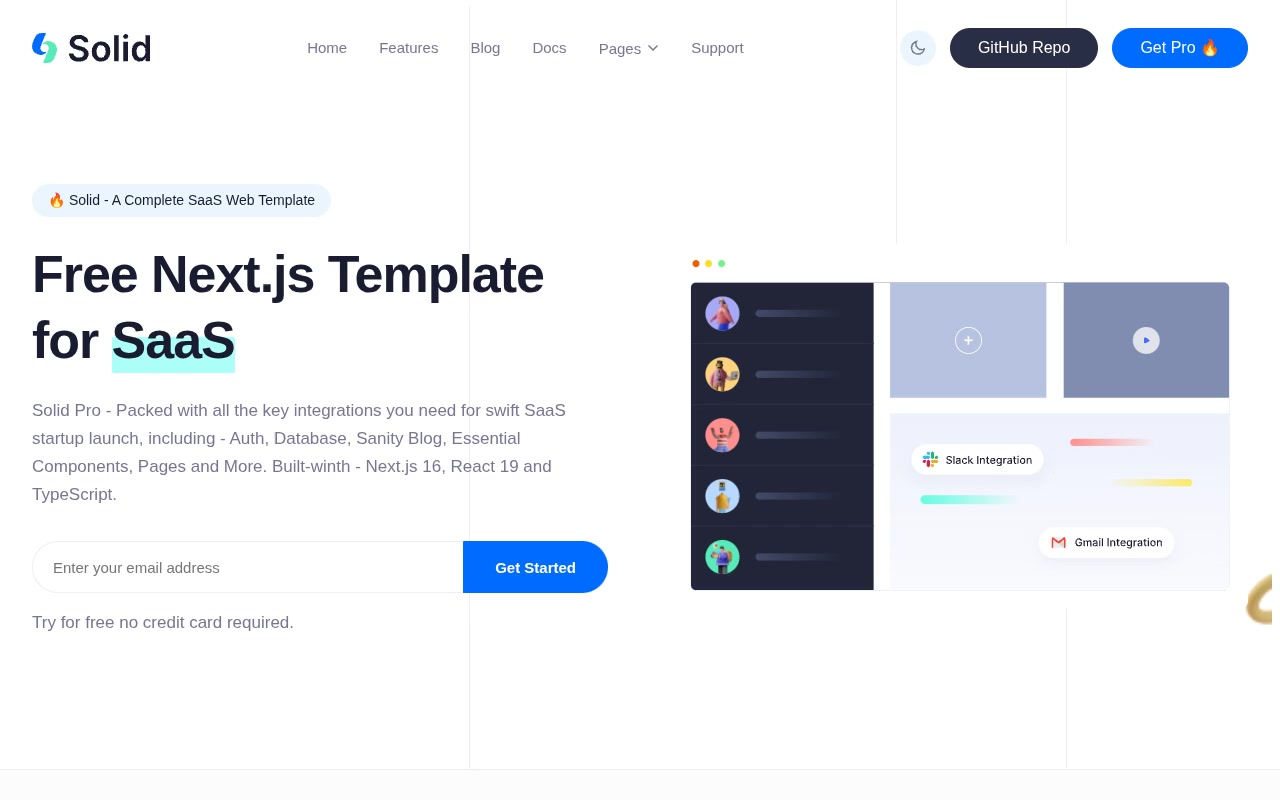
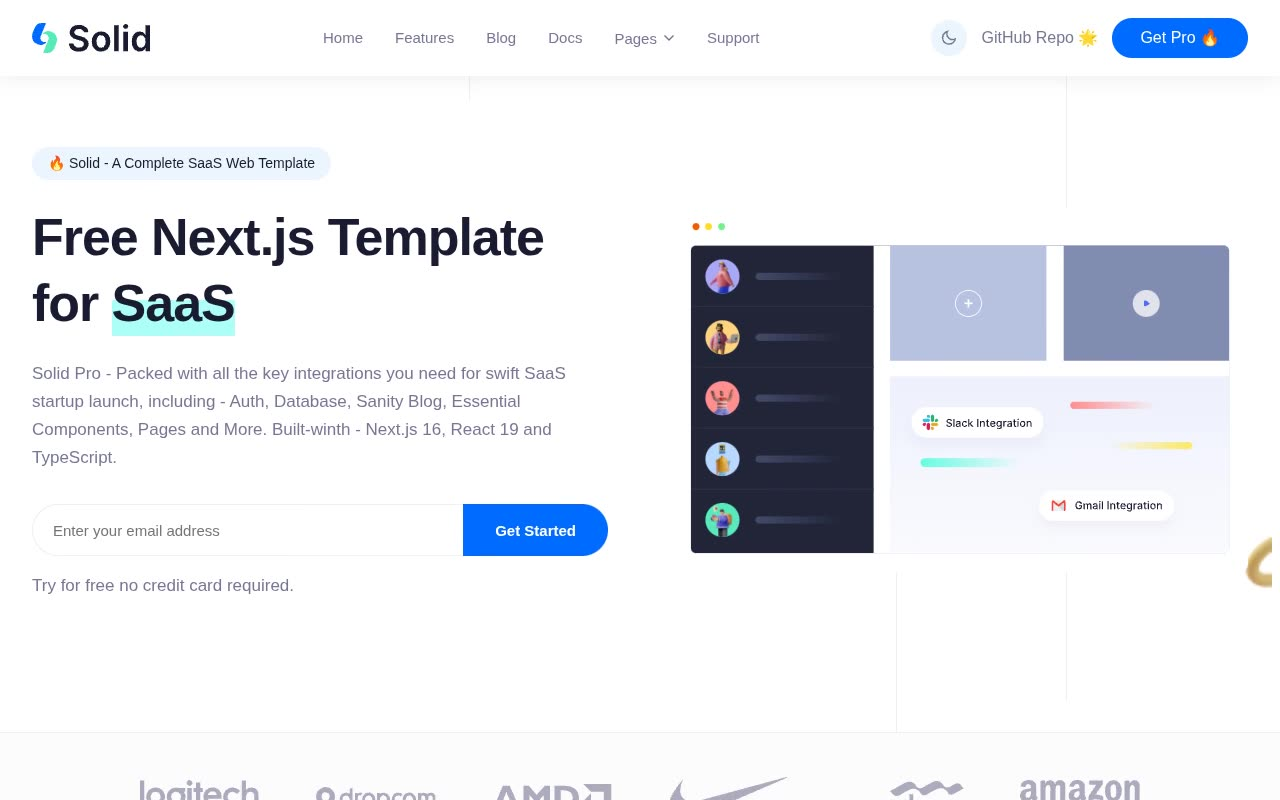
fix(solid): vision-loop corrections — nav, footer, support layout, copyright
- support.html: add full CSS for support layout (was rendering as unstyled raw HTML)
- auth-signin/auth-signup/support: fix .github-link from dark pill button to plain text
- index.html + error.html: change GitHub Repo button to nav-github-link plain text style
- styles.css: add .nav-github-link utility class
- index.html + error.html: remove "Designed by Next.js Templates" footer paragraph
- blog/blog-details/docs/index: update copyright year from 2024 → 2026
- Re-record demo.mp4 and regenerate poster.jpg after all fixes
- Update posters.json manifest

Claude-Session: https://claude.ai/code/session_01D1CjsboSLK2cEmqqkuDosD

diff --git a/templates/premium/nextjstemplates/solid/support.html b/templates/premium/nextjstemplates/solid/support.html
@@ -89,11 +89,10 @@
     .dark .theme-toggle .icon-moon { display: none; }
     .dark .theme-toggle .icon-sun { display: block; }
     .github-link {
-      display: inline-flex; align-items: center; padding: 0.75rem 1.75rem;
-      background: #292e45; color: #fff; border-radius: 9999px; font-size: 1rem;
-      font-weight: 500; text-decoration: none; transition: background 0.2s; white-space: nowrap;
+      font-size: 1rem; font-weight: 500; color: #757693;
+      text-decoration: none; transition: color 0.2s; white-space: nowrap;
     }
-    .github-link:hover { background: #252a42; }
+    .github-link:hover { color: #006bff; }
     .btn-get-pro {
       display: inline-flex; align-items: center; padding: 0.75rem 1.75rem;
       background: #006bff; color: #fff; border-radius: 9999px; font-size: 1rem;
@@ -118,6 +117,135 @@
       .dark .dropdown-menu { background: #252a42; }
       .nav-item-dropdown.open .dropdown-menu { display: block; }
     }
+
+    /* ── SUPPORT SECTION STYLES ── */
+    .support-main { padding-top: 0; }
+    .support-wrapper { padding: 5rem 0 5rem; }
+    .support-section { padding: 0 2rem; }
+    .support-container {
+      position: relative;
+      max-width: 1390px;
+      margin: 0 auto;
+      padding: 2.5rem 1.875rem 0;
+    }
+    @media (min-width: 1024px) {
+      .support-container { padding: 3.75rem 3.75rem 0; }
+    }
+    @media (min-width: 1280px) {
+      .support-container { padding: 5rem 5rem 0; }
+    }
+    .support-bg-gradient {
+      position: absolute;
+      left: 0; top: 0; z-index: -1;
+      height: 66.666%;
+      width: 100%;
+      border-radius: 8px;
+      background: linear-gradient(to top, transparent, rgba(222,231,255,0.28));
+    }
+    .dark .support-bg-gradient { background: linear-gradient(to top, transparent, rgba(37,42,66,0.8)); }
+    .support-dotted-shape {
+      position: absolute;
+      bottom: -255px;
+      left: 0; z-index: -1;
+      height: 100%; width: 100%;
+    }
+    .support-dotted-shape img { position: absolute; inset: 0; width: 100%; height: 100%; }
+    .dotted-light { display: block; }
+    .dotted-dark { display: none; }
+    .dark .dotted-light { display: none; }
+    .dark .dotted-dark { display: block; }
+    .support-cols {
+      display: flex;
+      flex-direction: column-reverse;
+      flex-wrap: wrap;
+      gap: 2rem;
+    }
+    @media (min-width: 768px) {
+      .support-cols { flex-direction: row; flex-wrap: nowrap; justify-content: space-between; }
+    }
+    @media (min-width: 1280px) {
+      .support-cols { gap: 5rem; }
+    }
+    .support-form-card {
+      width: 100%;
+      background: #fff;
+      border-radius: 8px;
+      padding: 1.875rem;
+      box-shadow: 0 4px 40px rgba(0,0,0,0.1);
+    }
+    .dark .support-form-card {
+      background: #000;
+      border: 1px solid #2d2f40;
+    }
+    @media (min-width: 768px) { .support-form-card { width: 60%; } }
+    @media (min-width: 1024px) { .support-form-card { width: 75%; } }
+    @media (min-width: 1280px) { .support-form-card { padding: 3.75rem; } }
+    .support-info-card {
+      width: 100%;
+    }
+    @media (min-width: 768px) { .support-info-card { width: 40%; padding: 1.875rem; } }
+    @media (min-width: 1024px) { .support-info-card { width: 26%; } }
+    @media (min-width: 1280px) { .support-info-card { padding-top: 3.75rem; } }
+    .support-card-title {
+      font-size: 1.875rem; font-weight: 600; color: #181c31; margin-bottom: 2.5rem;
+    }
+    .dark .support-card-title { color: #fff; }
+    @media (min-width: 1280px) { .support-card-title { font-size: 2rem; } }
+    .support-form .form-row {
+      display: flex; flex-direction: column; gap: 1.875rem; margin-bottom: 1.875rem;
+    }
+    @media (min-width: 1024px) {
+      .support-form .form-row { flex-direction: row; justify-content: space-between; gap: 3.5rem; }
+    }
+    .form-row-full { margin-bottom: 2.875rem; }
+    .form-input {
+      width: 100%; border: none; border-bottom: 1.5px solid #eee;
+      background: transparent; padding-bottom: 0.875rem;
+      font-size: 0.9375rem; color: #181c31; outline: none; font-family: inherit;
+    }
+    .dark .form-input { border-bottom-color: #2d2f40; color: #fff; }
+    .form-input::placeholder { color: #999aa1; }
+    .form-textarea {
+      width: 100%; border: none; border-bottom: 1.5px solid #eee;
+      background: transparent; font-size: 0.9375rem; color: #181c31;
+      outline: none; font-family: inherit; resize: vertical; min-height: 80px;
+    }
+    .dark .form-textarea { border-bottom-color: #2d2f40; color: #fff; }
+    .form-textarea::placeholder { color: #999aa1; }
+    .support-form-bottom {
+      display: flex; flex-wrap: wrap; gap: 1rem; justify-content: space-between; align-items: center;
+    }
+    .checkbox-label { display: flex; align-items: flex-start; gap: 0.75rem; cursor: pointer; }
+    .checkbox-label-wide { max-width: 425px; }
+    .checkbox-input { position: absolute; opacity: 0; width: 0; height: 0; }
+    .checkbox-custom {
+      flex-shrink: 0; margin-top: 0.25rem;
+      width: 20px; height: 20px; min-width: 20px;
+      border: 1.5px solid #eee; border-radius: 4px;
+      background: #f5f5f5; display: flex; align-items: center; justify-content: center;
+    }
+    .dark .checkbox-custom { background: #292e45; border-color: #2d2f40; }
+    .checkbox-input:checked ~ .checkbox-custom { background: #006bff; border-color: #006bff; }
+    .checkbox-custom svg { opacity: 0; }
+    .checkbox-input:checked ~ .checkbox-custom svg { opacity: 1; }
+    .checkbox-text { font-size: 0.9375rem; color: #757693; line-height: 1.5; }
+    .btn-dark-pill {
+      display: inline-flex; align-items: center; gap: 0.625rem;
+      background: #181c31; color: #fff; border: none;
+      padding: 0.75rem 1.5rem; border-radius: 9999px; font-size: 1rem; font-weight: 500;
+      cursor: pointer; font-family: inherit; transition: background 0.2s;
+    }
+    .btn-dark-pill:hover { background: #252a42; }
+    .dark .btn-dark-pill { background: #292e45; }
+    .btn-arrow { fill: white; }
+    .support-info-item { margin-bottom: 1.75rem; }
+    .support-info-label {
+      font-size: 1rem; font-weight: 500; color: #181c31; margin-bottom: 1rem;
+    }
+    .dark .support-info-label { color: #fff; }
+    .support-info-text { color: #757693; font-size: 0.9375rem; }
+    .support-info-text a { color: #757693; text-decoration: none; }
+    .support-info-text a:hover { color: #006bff; }
 
     /* ── FOOTER STYLES ── */
     .site-footer { border-top: 1px solid #eee; background: #fff; }

diff --git a/templates/premium/nextjstemplates/solid/styles.css b/templates/premium/nextjstemplates/solid/styles.css
@@ -418,6 +418,20 @@ input, textarea {
   color: var(--color-white);
 }
 
+/* GitHub Repo nav link — plain text style matching reference */
+.nav-github-link {
+  font-size: 1rem;
+  font-weight: 500;
+  color: var(--color-waterloo);
+  text-decoration: none;
+  transition: color 0.2s;
+  white-space: nowrap;
+}
+
+.nav-github-link:hover {
+  color: var(--color-primary);
+}
+
 .btn-outline {
   background-color: transparent;
   border: 1.5px solid var(--color-stroke);

diff --git a/templates/premium/nextjstemplates/solid/index.html b/templates/premium/nextjstemplates/solid/index.html
@@ -83,9 +83,7 @@
             <img src="./assets/images/icon/icon-moon.svg" class="icon-moon" alt="Switch to dark mode" width="18" height="18">
             <img src="./assets/images/icon/icon-sun.svg" class="icon-sun" alt="Switch to light mode" width="18" height="18">
           </button>
-          <a href="https://github.com/nextjstemplates/solid" class="btn btn-dark" target="_blank" rel="noopener noreferrer">
-            GitHub Repo
-          </a>
+          <a href="https://github.com/NextJSTemplates/solid-nextjs" class="nav-github-link" target="_blank" rel="noopener noreferrer">GitHub Repo 🌟</a>
           <a href="#" class="btn btn-primary">
             Get Pro 🔥
           </a>
@@ -1281,10 +1279,7 @@
       <!-- Footer Bottom Bar -->
       <div class="footer-bottom">
         <p class="footer-copyright">
-          &copy; 2024 Solid. All rights reserved
-        </p>
-        <p class="footer-credit">
-          Designed by <a href="https://nextjstemplates.com" target="_blank" rel="noopener noreferrer">Next.js Templates</a>
+          &copy; 2026 Solid. All rights reserved
         </p>
         <div class="footer-social">
           <!-- Facebook -->

diff --git a/templates/premium/nextjstemplates/solid/auth-signin.html b/templates/premium/nextjstemplates/solid/auth-signin.html
@@ -89,11 +89,10 @@
     .dark .theme-toggle .icon-moon { display: none; }
     .dark .theme-toggle .icon-sun { display: block; }
     .github-link {
-      display: inline-flex; align-items: center; padding: 0.75rem 1.75rem;
-      background: #292e45; color: #fff; border-radius: 9999px; font-size: 1rem;
-      font-weight: 500; text-decoration: none; transition: background 0.2s; white-space: nowrap;
+      font-size: 1rem; font-weight: 500; color: #757693;
+      text-decoration: none; transition: color 0.2s; white-space: nowrap;
     }
-    .github-link:hover { background: #252a42; }
+    .github-link:hover { color: #006bff; }
     .btn-get-pro {
       display: inline-flex; align-items: center; padding: 0.75rem 1.75rem;
       background: #006bff; color: #fff; border-radius: 9999px; font-size: 1rem;

diff --git a/templates/premium/nextjstemplates/solid/auth-signup.html b/templates/premium/nextjstemplates/solid/auth-signup.html
@@ -89,11 +89,10 @@
     .dark .theme-toggle .icon-moon { display: none; }
     .dark .theme-toggle .icon-sun { display: block; }
     .github-link {
-      display: inline-flex; align-items: center; padding: 0.75rem 1.75rem;
-      background: #292e45; color: #fff; border-radius: 9999px; font-size: 1rem;
-      font-weight: 500; text-decoration: none; transition: background 0.2s; white-space: nowrap;
+      font-size: 1rem; font-weight: 500; color: #757693;
+      text-decoration: none; transition: color 0.2s; white-space: nowrap;
     }
-    .github-link:hover { background: #252a42; }
+    .github-link:hover { color: #006bff; }
     .btn-get-pro {
       display: inline-flex; align-items: center; padding: 0.75rem 1.75rem;
       background: #006bff; color: #fff; border-radius: 9999px; font-size: 1rem;

diff --git a/templates/premium/nextjstemplates/solid/error.html b/templates/premium/nextjstemplates/solid/error.html
@@ -128,7 +128,7 @@
             <img src="./assets/images/icon/icon-moon.svg" class="icon-moon" alt="Switch to dark mode" width="21" height="21">
             <img src="./assets/images/icon/icon-sun.svg" class="icon-sun" alt="Switch to light mode" width="22" height="22">
           </button>
-          <a href="https://github.com/NextJSTemplates/solid-nextjs" class="btn btn-dark" target="_blank" rel="noopener noreferrer">GitHub Repo &#x1F31F;</a>
+          <a href="https://github.com/NextJSTemplates/solid-nextjs" class="nav-github-link" target="_blank" rel="noopener noreferrer">GitHub Repo &#x1F31F;</a>
           <a href="https://nextjstemplates.com/templates/solid" class="btn btn-primary" target="_blank" rel="noopener noreferrer">Get Pro &#x1F525;</a>
         </div>
 
@@ -216,9 +216,6 @@
       <div class="footer-bottom">
         <p class="footer-copyright">
           &copy; 2026 Solid. All rights reserved
-        </p>
-        <p class="footer-credit">
-          Designed by <a href="https://nextjstemplates.com" target="_blank" rel="noopener noreferrer">Next.js Templates</a>
         </p>
         <div class="footer-social">
           <a href="#" aria-label="Facebook">

diff --git a/templates/premium/nextjstemplates/solid/blog-details.html b/templates/premium/nextjstemplates/solid/blog-details.html
@@ -621,7 +621,7 @@
         <li><a href="#">Privacy Policy</a></li>
         <li><a href="#">Support</a></li>
       </ul>
-      <p class="footer-copyright">&#169; 2024 Solid. All rights reserved</p>
+      <p class="footer-copyright">&copy; 2026 Solid. All rights reserved</p>
       <ul class="footer-social">
         <li><a href="#" aria-label="Facebook"><svg width="24" height="24" viewBox="0 0 24 24" fill="none" xmlns="http://www.w3.org/2000/svg"><g clip-path="url(#ffb)"><path d="M14 13.5H16.5L17.5 9.5H14V7.5C14 6.47 14 5.5 16 5.5H17.5V2.14C17.174 2.097 15.943 2 14.643 2C11.928 2 10 3.657 10 6.7V9.5H7V13.5H10V22H14V13.5Z"/></g><defs><clipPath id="ffb"><rect width="24" height="24" fill="white"/></clipPath></defs></svg></a></li>
         <li><a href="#" aria-label="Twitter"><svg width="24" height="24" viewBox="0 0 24 24" fill="none" xmlns="http://www.w3.org/2000/svg"><g clip-path="url(#ftw)"><path d="M22.162 5.65593C21.3985 5.99362 20.589 6.2154 19.76 6.31393C20.6337 5.79136 21.2877 4.96894 21.6 3.99993C20.78 4.48793 19.881 4.82993 18.944 5.01493C18.3146 4.34151 17.4803 3.89489 16.5709 3.74451C15.6615 3.59413 14.7279 3.74842 13.9153 4.18338C13.1026 4.61834 12.4564 5.30961 12.0771 6.14972C11.6978 6.98983 11.6067 7.93171 11.818 8.82893C10.1551 8.74558 8.52832 8.31345 7.04328 7.56059C5.55823 6.80773 4.24812 5.75098 3.19799 4.45893C2.82628 5.09738 2.63095 5.82315 2.63199 6.56193C2.63199 8.01193 3.36999 9.29293 4.49199 10.0429C3.828 10.022 3.17862 9.84271 2.59799 9.51993V9.57193C2.59819 10.5376 2.93236 11.4735 3.54384 12.221C4.15532 12.9684 5.00647 13.4814 5.95299 13.6729C5.33661 13.84 4.6903 13.8646 4.06299 13.7449C4.32986 14.5762 4.85 15.3031 5.55058 15.824C6.25117 16.345 7.09712 16.6337 7.96999 16.6499C7.10247 17.3313 6.10917 17.8349 5.04687 18.1321C3.98458 18.4293 2.87412 18.5142 1.77899 18.3819C3.69069 19.6114 5.91609 20.2641 8.18899 20.2619C15.882 20.2619 20.089 13.8889 20.089 8.36193C20.089 8.18193 20.084 7.99993 20.076 7.82193C20.8949 7.2301 21.6016 6.49695 22.163 5.65693L22.162 5.65593Z"/></g><defs><clipPath id="ftw"><rect width="24" height="24" fill="white"/></clipPath></defs></svg></a></li>

diff --git a/templates/premium/nextjstemplates/solid/blog.html b/templates/premium/nextjstemplates/solid/blog.html
@@ -503,7 +503,7 @@
         <li><a href="#">Privacy Policy</a></li>
         <li><a href="#">Support</a></li>
       </ul>
-      <p class="footer-copyright">&#169; 2024 Solid. All rights reserved</p>
+      <p class="footer-copyright">&copy; 2026 Solid. All rights reserved</p>
       <ul class="footer-social">
         <li>
           <a href="#" aria-label="Facebook">

diff --git a/templates/premium/nextjstemplates/solid/docs.html b/templates/premium/nextjstemplates/solid/docs.html
@@ -446,7 +446,7 @@
         <li><a href="#">Privacy Policy</a></li>
         <li><a href="#">Support</a></li>
       </ul>
-      <p class="footer-copyright">&#169; 2024 Solid. All rights reserved</p>
+      <p class="footer-copyright">&copy; 2026 Solid. All rights reserved</p>
       <ul class="footer-social">
         <li><a href="#" aria-label="Facebook"><svg width="24" height="24" viewBox="0 0 24 24" fill="none" xmlns="http://www.w3.org/2000/svg"><g clip-path="url(#dfb)"><path d="M14 13.5H16.5L17.5 9.5H14V7.5C14 6.47 14 5.5 16 5.5H17.5V2.14C17.174 2.097 15.943 2 14.643 2C11.928 2 10 3.657 10 6.7V9.5H7V13.5H10V22H14V13.5Z"/></g><defs><clipPath id="dfb"><rect width="24" height="24" fill="white"/></clipPath></defs></svg></a></li>
         <li><a href="#" aria-label="Twitter"><svg width="24" height="24" viewBox="0 0 24 24" fill="none" xmlns="http://www.w3.org/2000/svg"><g clip-path="url(#dtw)"><path d="M22.162 5.65593C21.3985 5.99362 20.589 6.2154 19.76 6.31393C20.6337 5.79136 21.2877 4.96894 21.6 3.99993C20.78 4.48793 19.881 4.82993 18.944 5.01493C18.3146 4.34151 17.4803 3.89489 16.5709 3.74451C15.6615 3.59413 14.7279 3.74842 13.9153 4.18338C13.1026 4.61834 12.4564 5.30961 12.0771 6.14972C11.6978 6.98983 11.6067 7.93171 11.818 8.82893C10.1551 8.74558 8.52832 8.31345 7.04328 7.56059C5.55823 6.80773 4.24812 5.75098 3.19799 4.45893C2.82628 5.09738 2.63095 5.82315 2.63199 6.56193C2.63199 8.01193 3.36999 9.29293 4.49199 10.0429C3.828 10.022 3.17862 9.84271 2.59799 9.51993V9.57193C2.59819 10.5376 2.93236 11.4735 3.54384 12.221C4.15532 12.9684 5.00647 13.4814 5.95299 13.6729C5.33661 13.84 4.6903 13.8646 4.06299 13.7449C4.32986 14.5762 4.85 15.3031 5.55058 15.824C6.25117 16.345 7.09712 16.6337 7.96999 16.6499C7.10247 17.3313 6.10917 17.8349 5.04687 18.1321C3.98458 18.4293 2.87412 18.5142 1.77899 18.3819C3.69069 19.6114 5.91609 20.2641 8.18899 20.2619C15.882 20.2619 20.089 13.8889 20.089 8.36193C20.089 8.18193 20.084 7.99993 20.076 7.82193C20.8949 7.2301 21.6016 6.49695 22.163 5.65693L22.162 5.65593Z"/></g><defs><clipPath id="dtw"><rect width="24" height="24" fill="white"/></clipPath></defs></svg></a></li>